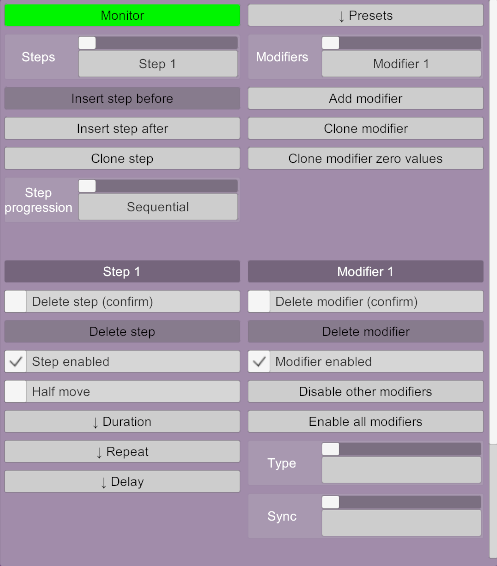
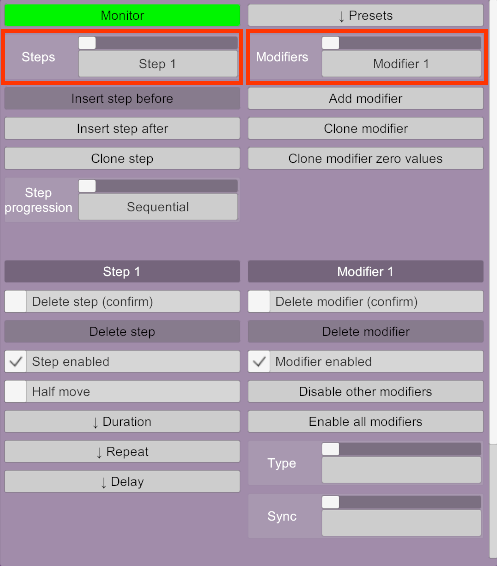
clarified that the containing atom doesn't matter add boxes around the step and modifier selection lists

Changed region(s): [[0.0, 0.03, 0.996, 0.1502]]

diff --git a/README.md b/README.md
@@ -33,6 +33,8 @@ At its core, Synergy has the notion of _steps_ and _modifiers_. Each step can co
 - [Easings](#easings)
 
 ## Getting started
+You can add the plugin on a Person or on any atom. Synergy doesn't really care where it's added. Adding it to a Person will automatically use that Person by default anywhere Synergy needs an atom, that's all.
+
 After the plugin has been added, the user interface is empty. _Insert step after_ will add a new step.
 
 [<img src="doc/empty.png" height="300">](doc/empty.png)
@@ -41,11 +43,11 @@ Once a step has been added, _Add modifier_ will add a new modifier in this step.
 
 [<img src="doc/empty-step.png" height="300">](doc/empty-step.png)
 
-Synergy now has one step and one modifier in this step.
+Synergy now has one step and one modifier in this step. When there are more than one step, or more than one modifier in the selected step, the lists at the top can be used to switch betweem them.
 
 [<img src="doc/base.png" height="400">](doc/base.png)
 
-The left side is used to configure the step. The right side configures a modifier. The selected step or modifier can be changed in the list at the top. Other steps or modifiers can be added using the buttons below the lists.
+The left side is used to configure the step. The right side configures a modifier. Other steps or modifiers can be added using the buttons below the lists.
 
 Adding steps:
 
@@ -197,7 +199,7 @@ The name of a modifier cannot currently be changed manually. It is automatically
 A modifier has a _duration_, which is used to drive its parameters. Typically, the parameters will be at 50% of their range when the duration is at 50% of its progress. By default, the duration of a modifier is the duration of its parent step. This allows for adding multiple modifiers to a step and have them synchronised. However, the _synchronisation_ option of a modifier can be changed so that it uses a different duration.
 
 - _Step duration_: This is the default. Uses the duration of the step that contains this modifier.
-- _Step progress_: If the step uses a [random range duration](#random-range), this is the same as _step duration_. If it uses a ramp, the modifier will steadily move towards 100% during ramp up and move towards 0% during ramp down (that is, the duration is the ramp time).
+- _Step progress_: If the step uses a [random range duration](#random-range), this is the same as _step duration_. If it uses a ramp, the modifier will steadily move towards 100% during ramp up and move towards 0% during ramp down (that is, the duration is twice the ramp time plus the hold maximum time).
 - _Other modifier_: Uses whatever duration the selected modifier uses.
 - _Unsynced_: The modifier has its own duration and delay, independent of the step.
 
@@ -205,7 +207,7 @@ A modifier has a _duration_, which is used to drive its parameters. Typically, t
 ### Unsynced modifiers
 Synergy has several options to manage unsynced modifiers because they are a great way of adding secondary movements. For example, a regular hip thrust works well with random, unsynchronised head movements such as slow rotations. There are three ways of achieving this:
 
- - Concurrent steps: The hip thrust and head movements can be added to two independent steps if the step progression is set to _concurrent_. The hip step can have a steady, fast rhythm, while the head step can have a slower, random duration. However, this makes it impossible to add a _second_ set of animations that executes after some time since it would execute concurrently. The various head movements like forces and rotations would also all be synchronised with each other since they're all in the same step. Head movements look better if they're all allowed to run independently and randomly.
+ - Concurrent steps: The hip thrust and head movements can be added to two independent steps if the [step progression](#progression) is set to _concurrent_. The hip step can have a steady, fast rhythm, while the head step can have a slower, random duration. However, this makes it impossible to add a _second_ set of animations that executes after some time since it would execute concurrently. The various head movements like forces and rotations would also all be synchronised with each other since they're all in the same step. Head movements look better if they're all allowed to run independently and randomly.
 
  - Unsynced modifiers: All the hip and head modifiers can be added to the same step and be set as unsynced. The step duration would only be used as a time limit after which all modifiers stop as soon as they can. This can create good movement, but some animations look better if several movements are synced, such as a hip thrust, which is typically a combination of forces on Z and rotations on X. If these two movements are completely unsynchronised, they might end up fighting each other eventually, especially if their movement timings has randomness.
 
@@ -213,9 +215,9 @@ Synergy has several options to manage unsynced modifiers because they are a grea
 
 	- Pick one movement as being the main one. In this case, it would be the hip thrust. All the hip thrust modifiers would be synced with the step (the default setting), while all the head modifiers would be unsynced, as they're considered secondary movements. Other unsynced modifiers like hand or feet movements can also be added.
 
-	  The step duration then drives the hip movements, while secondary movements are unsynced and move naturally with some randomness. Once the step duration has elapsed, the various unsynced modifiers will be allowed to run to completion. Once that's over, another step with a brand new animation can be executed.
+	  The step duration (which can be a ramp) then drives the hip movements, while secondary movements are unsynced and move naturally with some randomness. Once the step duration has elapsed, the various unsynced modifiers will be allowed to run to completion. Once that's over, another step with a brand new animation can be executed.
 
-    - Create a main hip movement as an unsynced modifier, such as a force on Z. Then, the other hip modifiers such as torques can have their _sync_ option set to _Other modifier_ and linked with the first hip modifier. After that, other unsynced modifiers can be added for the head movements. In this case, the step duration is only used as a time limit, it doesn't drive anything. This is equivalent to the above, but can be more difficult to manage through the UI.
+    - Create a main hip movement as an unsynced modifier, such as a force on Z. Then, the other hip modifiers such as torques can have their _sync_ option set to _Other modifier_ and linked with the first hip modifier. After that, other unsynced modifiers can be added for the head movements. In this case, the step duration is only used as a time limit, it doesn't drive anything. This is equivalent to the above, but can be more difficult to manage through the UI because the step options become mostly irrelevant and a lot of switching between modifiers is required.
 
 As with everything, a combination of all of the above can give a lot of flexibility. A step can have some synced modifiers, some unsynced modifiers and some modifiers synced with each others.
 
